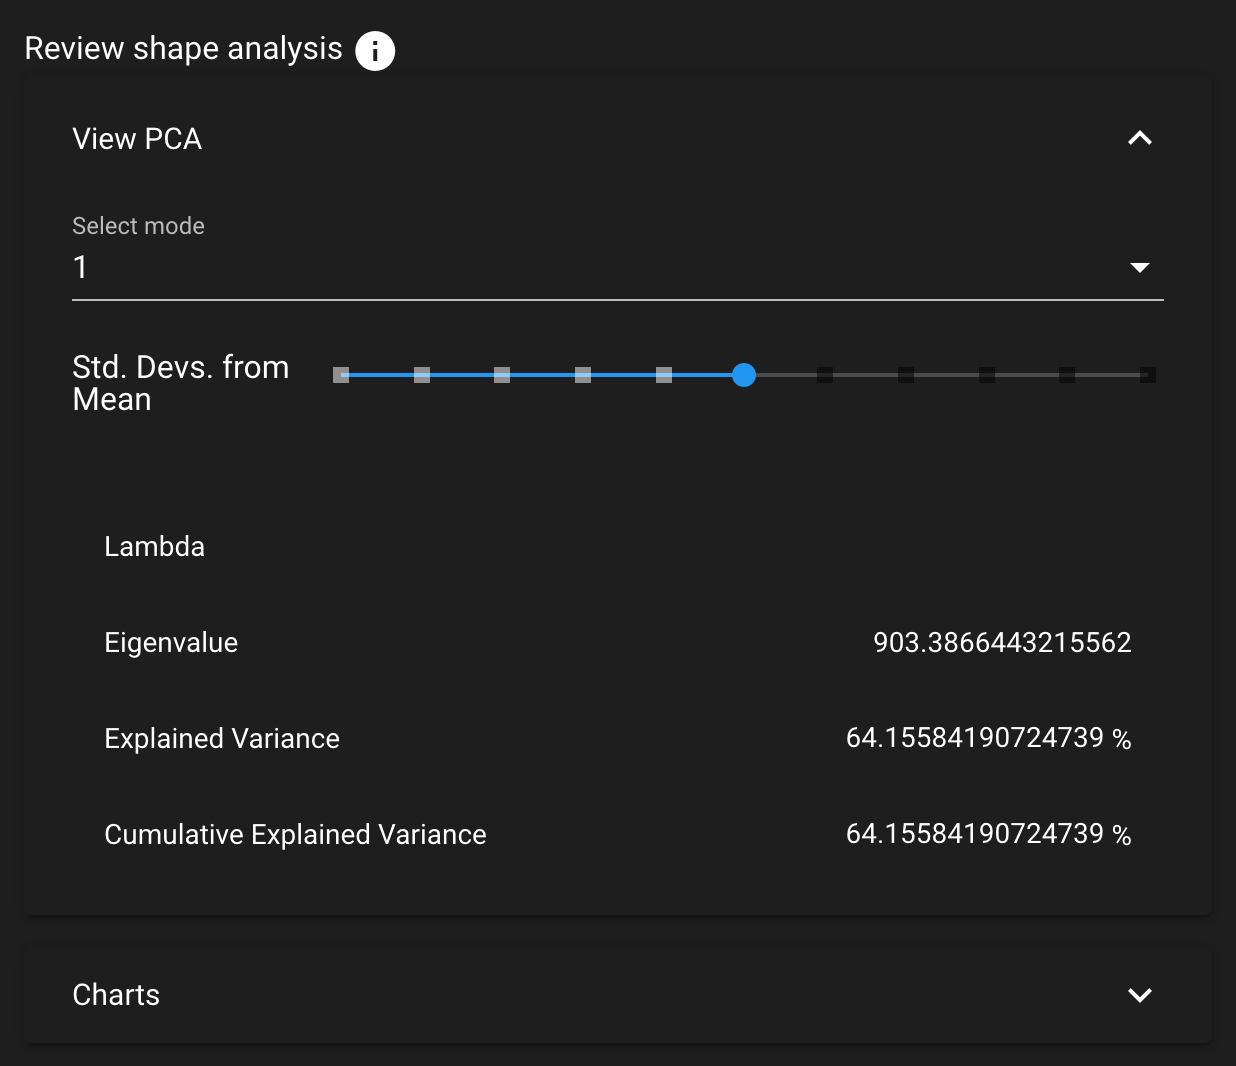
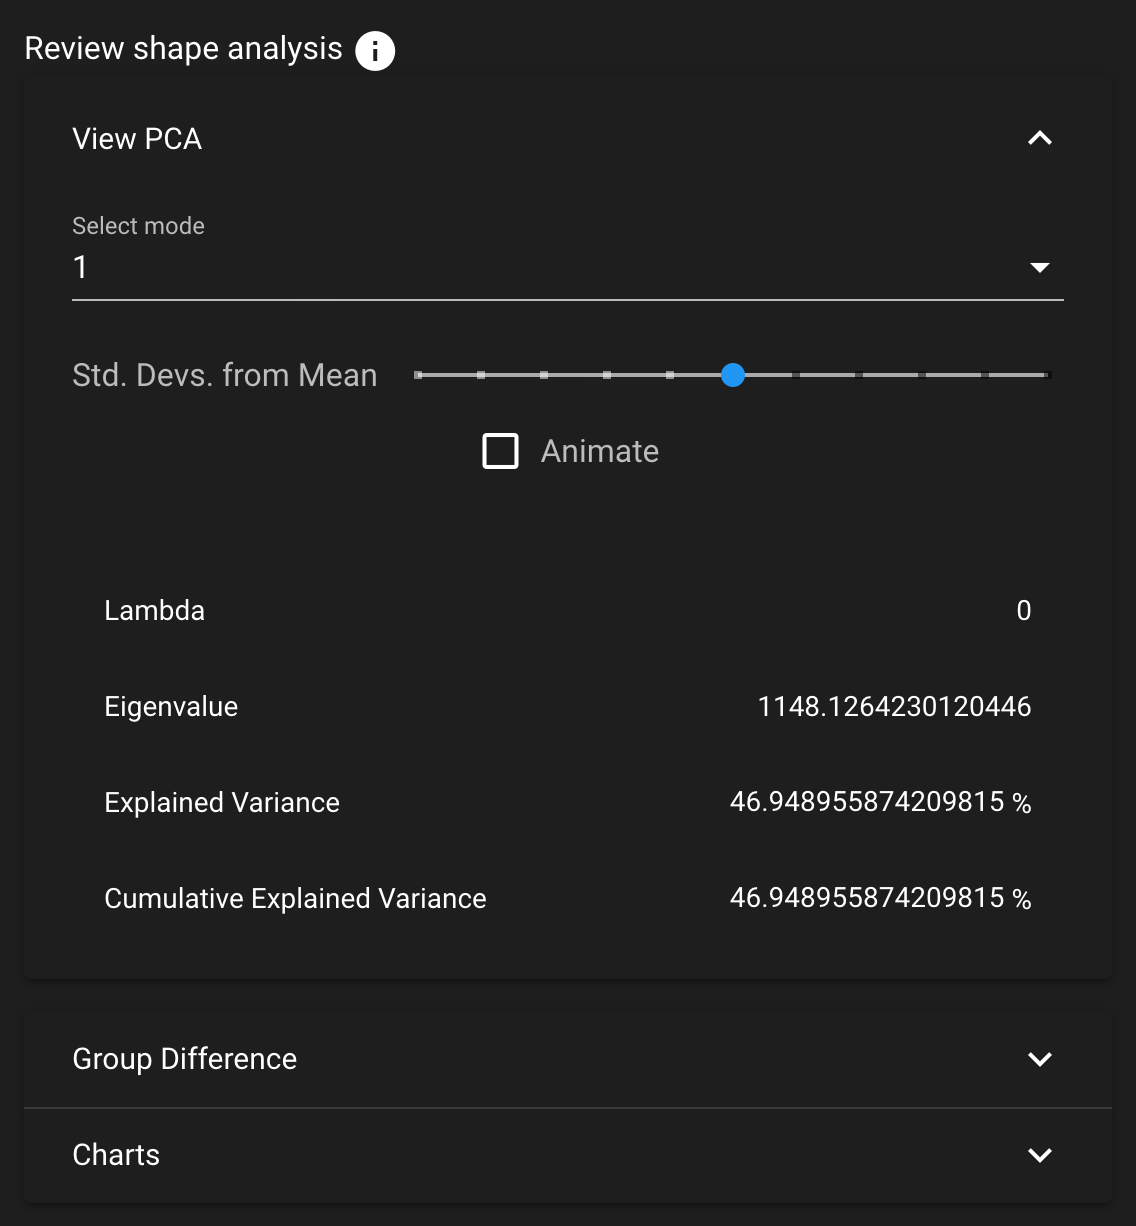
Update ShapeWorks Cloud docs

diff --git a/docs/cloud/cloud-analyze-module.md b/docs/cloud/cloud-analyze-module.md
@@ -8,7 +8,10 @@ The analyze module can be viewed after a successful optimization job. There are 
 
 ## View PCA
 
-The View PCA panel shows reconstructed shapes (surface meshes) along PCA modes of variation. Modes of variations are shape parameters learned/discovered from your data that describes shape variations. You can control the location along the PCA mode with the Standard Deviation slider.  
+The View PCA panel shows reconstructed shapes (surface meshes) along PCA modes of variation. Modes of variations are shape parameters learned/discovered from your data that describes shape variations. You can control the location along the PCA mode with the Standard Deviation slider and/or the animate option.
+
+The animate option allows for an automatic adjustment of the Standard Deviation slider within a mode of variation. Upon selecting the animate option, the comparison vectors and colormap for each shape in the mode will be calculated. This will only occur the first time that the option is selected for a given mode.
+
 Values displayed:
 
 `Lambda` - This shows the PCA loading of current position of the slider.  The middle of the slider, at the mean value, will be 0.  The extent of lambda is defined by the number of standard deviations of the slider as described above.  At standard deviation of 1.0, it will be the square root of the mode's eigenvalue.

diff --git a/docs/cloud/cloud-project.md b/docs/cloud/cloud-project.md
@@ -10,6 +10,14 @@ Each project contains a separate copy of the data.
 
 ## Create a Project
 
-To create a project, select a [dataset](cloud-dataset.md) and click "Create Project". Here, you will be able to add a description and keywords for the project.
+To create a project, select a [dataset](cloud-dataset.md) and click "Create Project". Here, you will be able to add a name, description, and keywords for the project, as well as designate the new project as `private`.
 
 A project can also be created via the [ShapeWorks Cloud Client](swcc.md#projects).
+
+![ShapeWorks Cloud Projects](../img/cloud/create_project.png){: width="250"}
+
+## Edit a Project
+
+To edit a project, select "EDIT" on any project you have permissions to edit. You are able to modify the name, description, or keywords.
+
+![ShapeWorks Cloud Projects](../img/cloud/edit_project.png){: width="250"}

diff --git a/docs/cloud/cloud-data-module.md b/docs/cloud/cloud-data-module.md
@@ -17,3 +17,9 @@ Anatomies can be selected or deselected to allow you to choose what is viewed in
 Subjects contain each individual mesh in the dataset. Each subject can be selected or deselected to allow you to choose what is viewed in the [Shape Viewer](cloud-shape-viewer.md).
 
 ![Subject with Multiple Anatomies](../img/cloud/subject_multiple_anatomies.png){: width="500"}
+
+## Landmarks
+
+![ShapeWorks Cloud Projects](../img/cloud/landmarks.png){: width="600"}
+
+Landmarks can be displayed in ShapeWorks Cloud to mark anatomical features. Landmarks can be viewed and/or modified in the "Info" tab while in a project with landmarks.

diff --git a/docs/cloud/cloud-shape-viewer.md b/docs/cloud/cloud-shape-viewer.md
@@ -26,6 +26,7 @@ The layer choice option is NOT available in the [analyze module](cloud-analyze-m
 | Groomed | The groomed mesh (colored green) |
 | Reconstructed | The reconstructed mesh (colored red) |
 | Particles | Optimization particles for the shape |
+| Landmarks | Landmarks which mark anatomical features |
 
 ## Set Thumbnail
 
